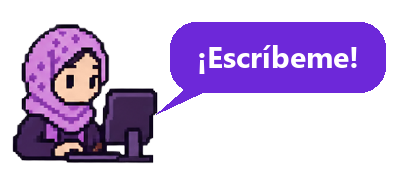
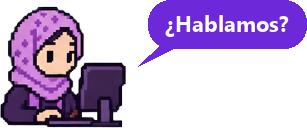
README: avatares del equipo con pelo suelto y bocadillos

diff --git a/README.md b/README.md
@@ -14,7 +14,7 @@
 <p align="left">Del lenguaje a la IA aplicada. En el proyecto se ocupó de las <b>métricas de protagonismo</b>, la <b>transcripción y atribución de la voz</b>, la <b>interfaz</b> y el <b>sistema automático</b> que analiza cualquier rueda de prensa de La Moncloa sin revisión manual.</p>
 <a href="https://www.linkedin.com/in/firdaous-boulahfa-el-mourabit-871b11343/"><img src="https://img.shields.io/badge/LinkedIn-0A66C2?logo=linkedin&logoColor=white" alt="LinkedIn"></a>
 <a href="https://github.com/bfir"><img src="https://img.shields.io/badge/GitHub-24163f?logo=github&logoColor=white" alt="GitHub"></a>
-<br><img src="docs/readme/correo_firdaous.png" width="210" alt="Avatar de Firdaous diciendo «¡Escríbeme!»"><br>
+<br><img src="docs/readme/correo_firdaous.png" width="180" alt="Avatar de Firdaous diciendo «¿Hablamos?»"><br>
 <code>boulahfafirdaous@gmail.com</code>
 </td>
 <td align="center" width="33%" valign="top">
@@ -25,7 +25,7 @@
 <p align="left">Visión por computador aplicada. En el proyecto construyó el <b>motor de visión integrado</b> (planos, personas y rótulos, reproducible y reanudable), probó los <b>modelos de imagen</b> y tomó la <b>decisión ética</b> de no inferir el género a partir de la cara.</p>
 <a href="https://www.linkedin.com/in/paula-garcia-fernandez-pgf3712/"><img src="https://img.shields.io/badge/LinkedIn-0A66C2?logo=linkedin&logoColor=white" alt="LinkedIn"></a>
 <a href="https://github.com/pgf3712"><img src="https://img.shields.io/badge/GitHub-24163f?logo=github&logoColor=white" alt="GitHub"></a>
-<br><img src="docs/readme/correo_paula.png" width="210" alt="Avatar de Paula diciendo «¡Escríbeme!»"><br>
+<br><img src="docs/readme/correo_paula.png" width="180" alt="Avatar de Paula diciendo «¿Conectamos?»"><br>
 <code>infopaulagarciafernandez@gmail.com</code>
 </td>
 <td align="center" width="33%" valign="top">
@@ -36,7 +36,7 @@
 <p align="left">Psicología, personas y método. En el proyecto desarrolló la <b>detección de cortes de plano</b> y la <b>detección y seguimiento de personas</b>, y probó los modelos sobre la rueda de prensa para elegir los que usa el sistema.</p>
 <a href="https://www.linkedin.com/in/nouhaila-boulahfa-el-mourabit-50773a350/"><img src="https://img.shields.io/badge/LinkedIn-0A66C2?logo=linkedin&logoColor=white" alt="LinkedIn"></a>
 <a href="https://github.com/nouhailaboulahfa"><img src="https://img.shields.io/badge/GitHub-24163f?logo=github&logoColor=white" alt="GitHub"></a>
-<br><img src="docs/readme/correo_nouhaila.png" width="210" alt="Avatar de Nouhaila diciendo «¡Escríbeme!»"><br>
+<br><img src="docs/readme/correo_nouhaila.png" width="180" alt="Avatar de Nouhaila diciendo «¡Escríbeme!»"><br>
 <code>nouhailaboulahfa@gmail.com</code>
 </td>
 </tr>
